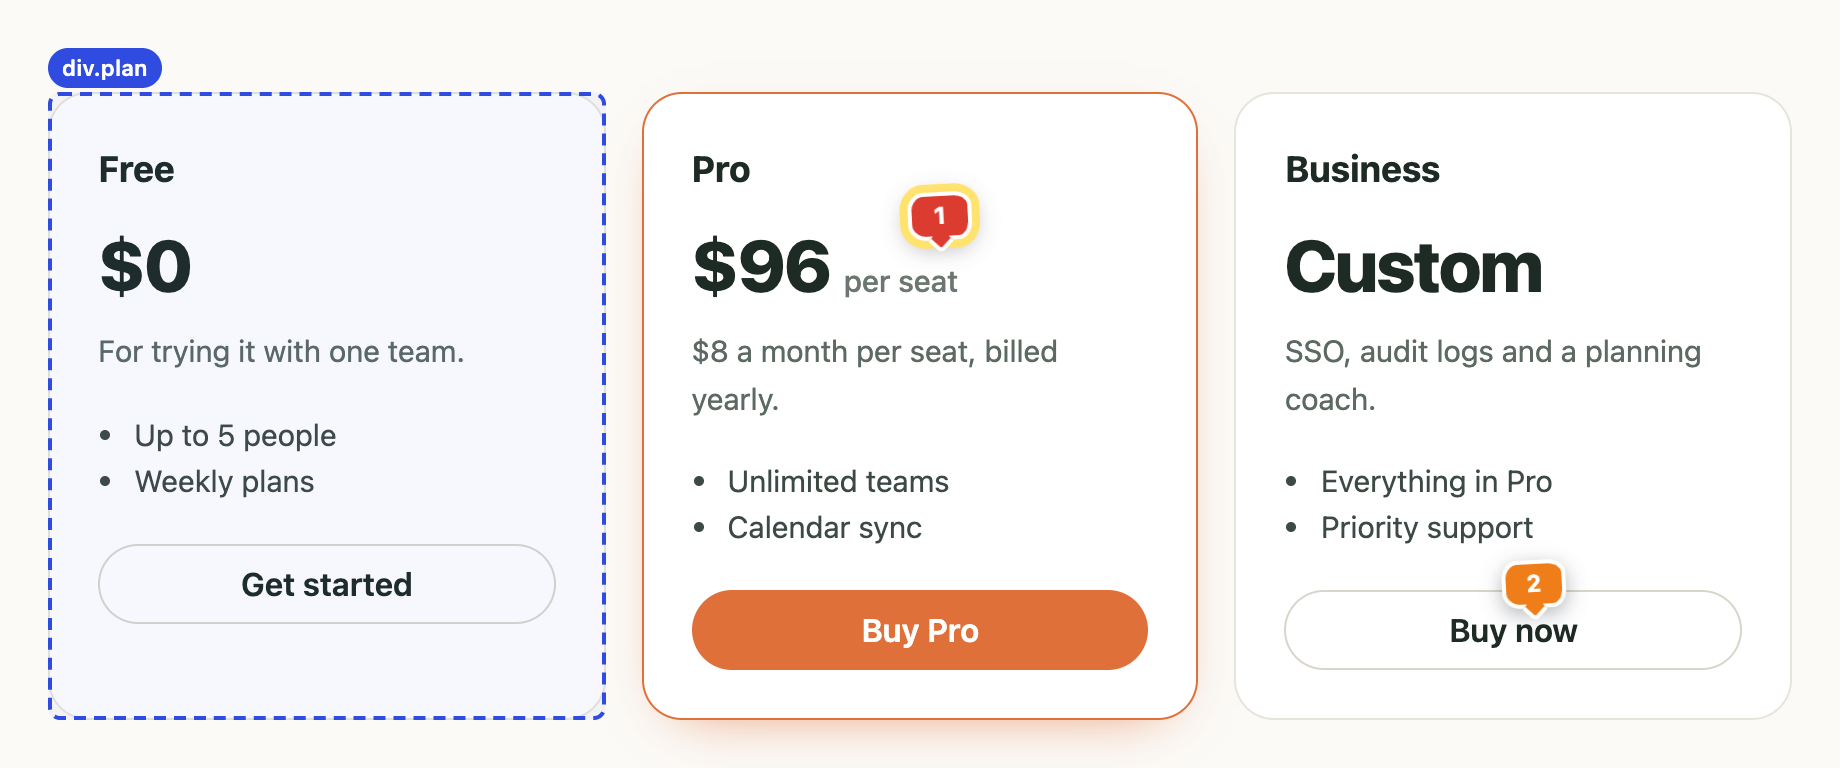
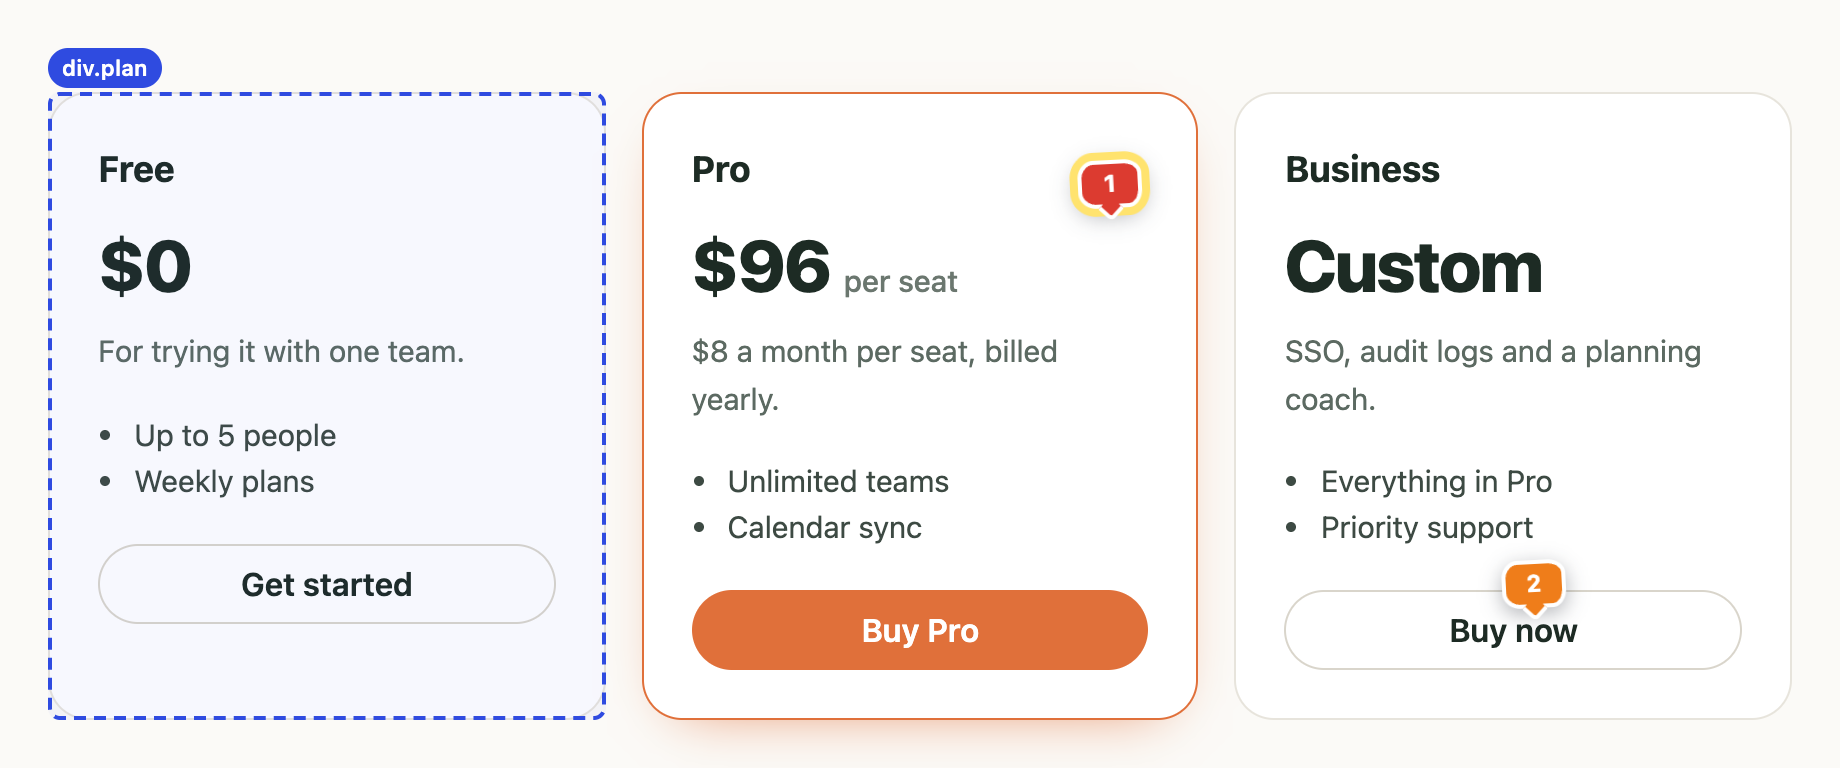
Landing page: redraw hero notes in image space, pin anywhere, clearer multi-page copy

Changed region(s): [[0.4647, 0.1875, 0.6505, 0.3438]]

diff --git a/site/index.html b/site/index.html
@@ -50,10 +50,9 @@
   .shot{position:relative}
   .shot>img{border-radius:18px;box-shadow:0 1px 0 #1f24300d,0 30px 70px -34px #1f243088;outline:1px solid #1f243014}
   /* Hand-written review notes on the screenshots: the page is marked up like the product does. */
-  .note{position:absolute;font:600 25px/1.05 var(--hand);color:var(--cobalt);white-space:nowrap;pointer-events:none}
-  .note svg{position:absolute;overflow:visible;fill:none;stroke:var(--cobalt);stroke-width:2.6;stroke-linecap:round;stroke-linejoin:round}
-  .note.pin{left:6%;top:103%}.note.pin svg{left:62%;top:-168px;width:70px;height:160px}
-  .note.copy{right:-1%;top:103%}.note.copy svg{right:12%;top:-50px;width:40px;height:46px}
+  .notes{position:absolute;left:0;top:0;width:100%;height:auto;overflow:visible;pointer-events:none}
+  .notes text{font:600 66px var(--hand);fill:var(--cobalt)}
+  .notes path{fill:none;stroke:var(--cobalt);stroke-width:7;stroke-linecap:round;stroke-linejoin:round}
 
   /* Bento */
   .section-head{max-width:640px;margin:0 0 28px}
@@ -96,14 +95,13 @@
     .bento{grid-template-columns:repeat(2,minmax(0,1fr))}
     .s3,.s4{grid-column:span 2}.s2{grid-column:span 1}.r2{grid-row:auto}
     .install{grid-template-columns:1fr;gap:24px}
-    .note.pin{left:8%}
   }
   @media (max-width:640px){
     .wrap{padding:0 16px}
     .bar nav a:not(.button){display:none}
     .bento{grid-template-columns:1fr}
     .s2,.s3,.s4{grid-column:auto}
-    .note{display:none}
+    .notes{display:none}
     .hero{gap:32px;padding-bottom:64px}
     .lede{font-size:18px}
   }
@@ -136,13 +134,14 @@
         <p class="small">Free Chrome extension. No account, nothing uploaded.</p>
       </div>
       <figure class="shot">
-        <img src="assets/hero.png" width="1800" height="1125" alt="A pricing page being reviewed: numbered comment pins on the Pro price and the Business button, and the Page Notes panel listing comments, text edits and a removal with severity chips.">
-        <div class="note pin">pinned right on the price
-          <svg viewBox="0 0 70 160" aria-hidden="true"><path d="M6 156C10 110 24 60 52 8"/><path d="M40 12L53 6L57 20"/></svg>
-        </div>
-        <div class="note copy">one click, ready to paste
-          <svg viewBox="0 0 40 46" aria-hidden="true"><path d="M20 44C16 30 18 16 24 4"/><path d="M15 12L24 3L30 14"/></svg>
-        </div>
+        <img src="assets/hero.png" width="1800" height="1125" alt="A pricing page being reviewed: numbered comment pins on the Pro plan and the Business button, and the Page Notes panel listing comments, text edits and a removal with severity chips.">
+        <!-- Drawn in the screenshot's own pixel space so labels and arrows scale with it. -->
+        <svg class="notes" viewBox="0 0 1800 1300" aria-hidden="true">
+          <text x="250" y="1236">pin anywhere</text>
+          <path d="M480 1178C520 1010 640 850 722 724"/><path d="M688 742L724 720L728 762"/>
+          <text x="1790" y="1236" text-anchor="end">one click, ready to paste</text>
+          <path d="M1470 1178C1466 1150 1474 1122 1484 1096"/><path d="M1462 1112L1486 1092L1504 1116"/>
+        </svg>
       </figure>
     </section>
 
@@ -188,8 +187,8 @@
 <span class="h">### 1. Comment · pin 1 · <span class="m">must fix</span></span>
 - Note: Annual price reads like monthly. Lead with the per-month price.
 - Section: main › Plan the week your team actually has. › Pro
-- Text: <span class="c">`per seat`</span> (appears 2× on page)
-- Locator: <span class="c">`div[data-testid="plan-pro"] > div > small`</span>
+- Text: <span class="c">`$96 per seat`</span>
+- Locator: <span class="c">`div[data-testid="plan-pro"] > div`</span>
 
 <span class="h">### 3. Text edit · suggested</span>
 - Original: <span class="c">`Billed annually, cancel anytime.`</span>
@@ -209,7 +208,7 @@
 
         <article class="card s2">
           <h3>Survives a reload</h3>
-          <p>Refresh or click through the site and your pins come back. Every page you visit joins the same review.</p>
+          <p>Refresh or click through to other pages and your pins come back. Each page joins the same review as P1, P2… On another site, click the icon to carry on.</p>
           <ul class="pages" aria-label="Pages in one review"><li><b>P1</b>/pricing</li><li><b>P2</b>/checkout</li></ul>
         </article>
         <article class="card s2">

diff --git a/README.md b/README.md
@@ -52,7 +52,7 @@ Browsing is the default. Turn a tool on, use it, and turn it off with the same k
 - **Severity:** every item has **Must fix** (red), **Suggested** (orange, the default), **Nit** (yellow) and **Note** (blue, no change needed). Pins take the color; the review lists urgent items first and notes last.
 - **The panel:** click a pin to highlight its note, or click a note to scroll to its pin. Drag the header (or the minimized pill) anywhere; the corner button snaps it back to a corner.
 - **Done** appears after you copy or download, and closes the review in one click. If you change anything afterwards, it hides until you copy or download again, so unsent feedback is never thrown away.
-- **Reloads and navigation:** the review lives with its tab. Refresh or click through the site and your pins come back; each page you visit becomes P1, P2… in the same review. Chrome's session storage keeps the draft until you close the tab, discard the review or quit the browser.
+- **Reloads and navigation:** the review lives with its tab. Refresh or click through the site and your pins come back; each page you visit becomes P1, P2… in the same review. On a different site, click the icon to continue it. Chrome's session storage keeps the draft until you close the tab, discard the review or quit the browser.
 
 ## What your agent gets
 
@@ -62,10 +62,10 @@ One short Markdown file. A header with the page, timing and environment, a "How 
 ### 1. Comment · pin 1 · must fix
 - Note: Annual price reads like monthly. Lead with the per-month price.
 - Section: main › Plan the week your team actually has. › Pro
-- Text: `per seat` (appears 2× on page)
-- Context: …Get started Pro $96 **per seat** $8 a month per seat, billed yearly…
-- Locator: `div[data-testid="plan-pro"] > div > small`
-- Excerpt: `<small>per seat</small>`
+- Text: `$96 per seat`
+- Context: …Get started Pro **$96 per seat** $8 a month per seat, billed yearly…
+- Locator: `div[data-testid="plan-pro"] > div`
+- Excerpt: `<div class="price">$96 <small>per seat</small></div>`
 ```
 
 Text edits give the exact original and replacement (plus formatting and the element's inline markup); removals give the section. There's no full-page HTML, no form values and no action history. See the [full sample](site/assets/sample-review.md) and the [format reference](docs/format.md). Paste it with your source project open:

diff --git a/site/assets/sample-review.md b/site/assets/sample-review.md
@@ -1,8 +1,8 @@
 # Review: Kettle: plan the week your team actually has
 
 - Page: https://kettle.example/pricing
-- Review: r-20261025-ae64 · Page Notes 0.2.0 · digest v1
-- Started: 2026-10-25T00:31:43-04:00 · Exported: 2026-10-25T00:31:47-04:00 (0 min)
+- Review: r-20261025-415c · Page Notes 0.2.0 · digest v1
+- Started: 2026-10-25T12:05:32-04:00 · Exported: 2026-10-25T12:05:36-04:00 (0 min)
 - Environment: Chromium 141 · macOS · 1440×900 @2x · light
 - Summary: 3 comments, 2 text edits, 1 removal
 - Severity: 1 must fix, 4 suggested, 0 nits, 1 note
@@ -19,12 +19,13 @@
 ### 1. Comment · pin 1 · must fix
 - Note: Annual price reads like monthly. Lead with the per-month price.
 - Section: main › Plan the week your team actually has. › Pro
-- Text: `per seat` (appears 2× on page)
-- Context: …For trying it with one team. Up to 5 people Weekly plans Get started Pro $96 **per seat** $8 a month per seat, billed yearly. Unlimited teams Calendar sync Buy Pro…
-- Locator: `div[data-testid="plan-pro"] > div > small`
-- Ancestors: `main` › `section[aria-label="Plans"]` › `div[data-testid="plan-pro"]` › `div`
-- Excerpt: `<small>per seat</small>`
-- Pin: on the element, 86% across and -11% down
+- Text: `$96 per seat`
+- Context: …$0 For trying it with one team. Up to 5 people Weekly plans Get started Pro **$96 per seat** $8 a month per seat, billed yearly. Unlimited teams Calendar sync Buy Pro…
+- Locator: `div[data-testid="plan-pro"] > div`
+- Ancestors: `main` › `section[aria-label="Plans"]` › `div[data-testid="plan-pro"]`
+- Classes: `price`
+- Excerpt: `<div class="price">$96 <small>per seat</small></div>`
+- Pin: on the element, 92% across and 15% down
 
 ### 2. Text edit · suggested
 - Original: `Kettle turns meetings, focus time and real capacity into one weekly plan, so nobody promises a Tuesday they don't have.`
